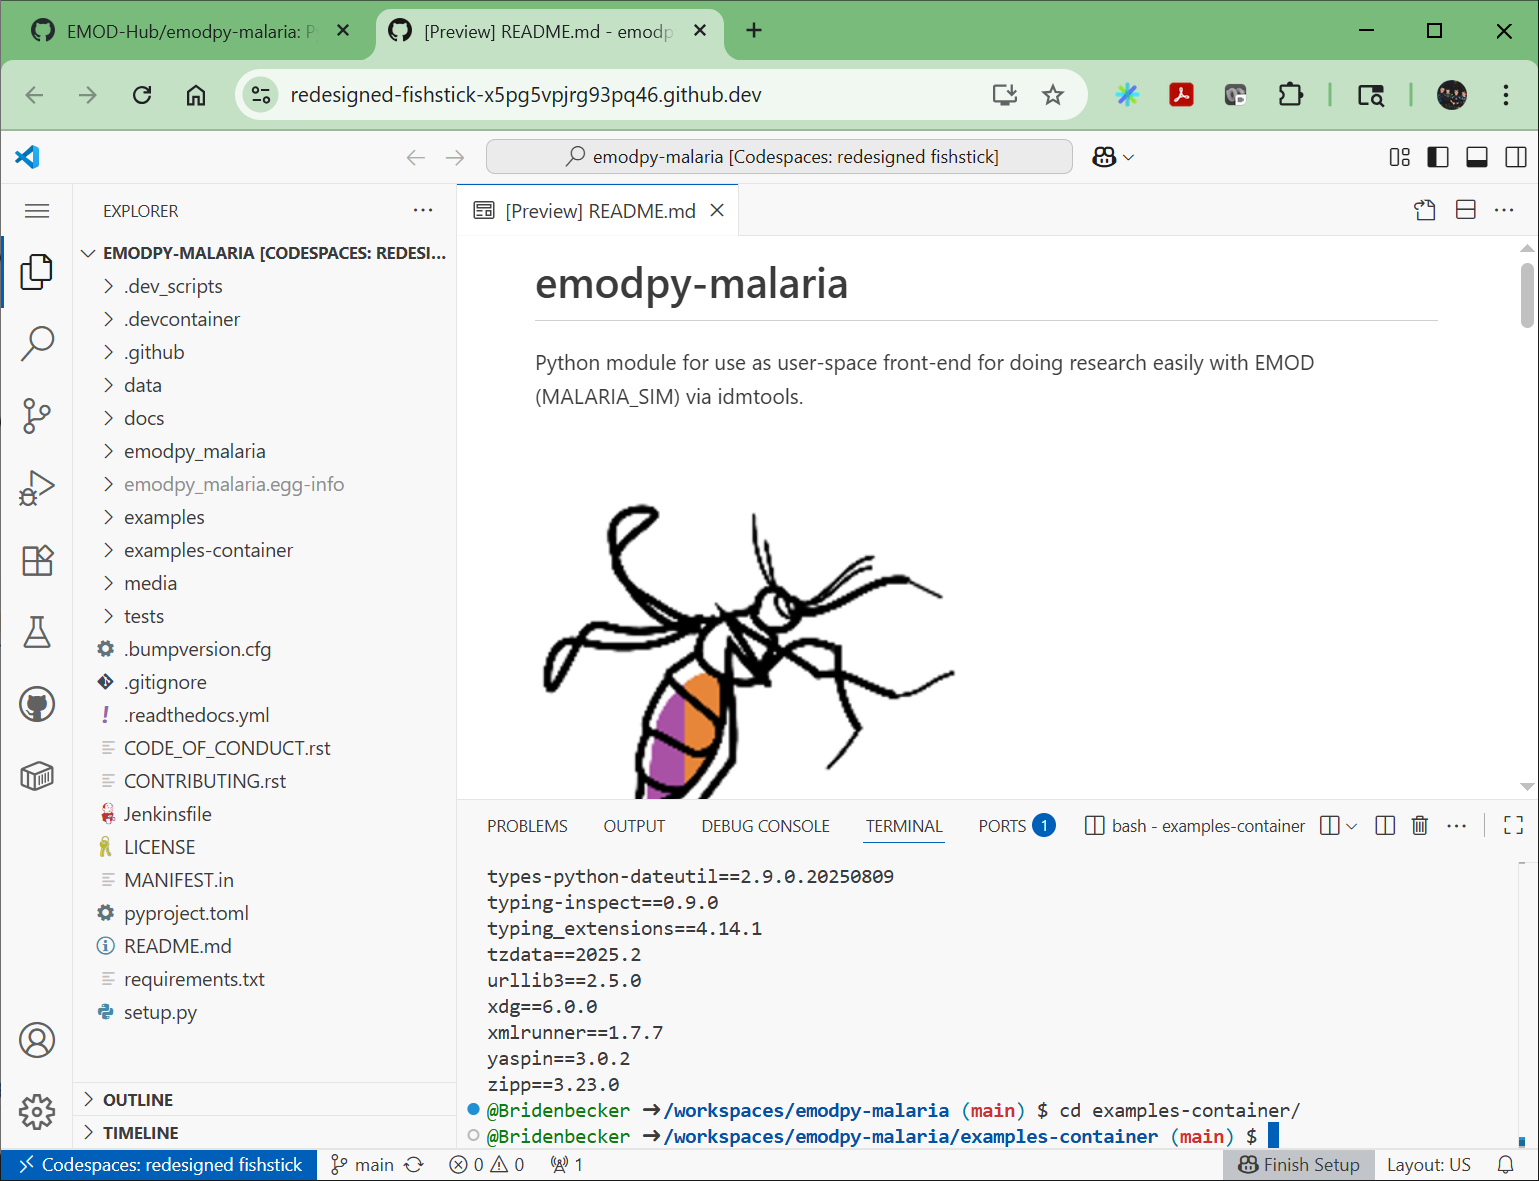
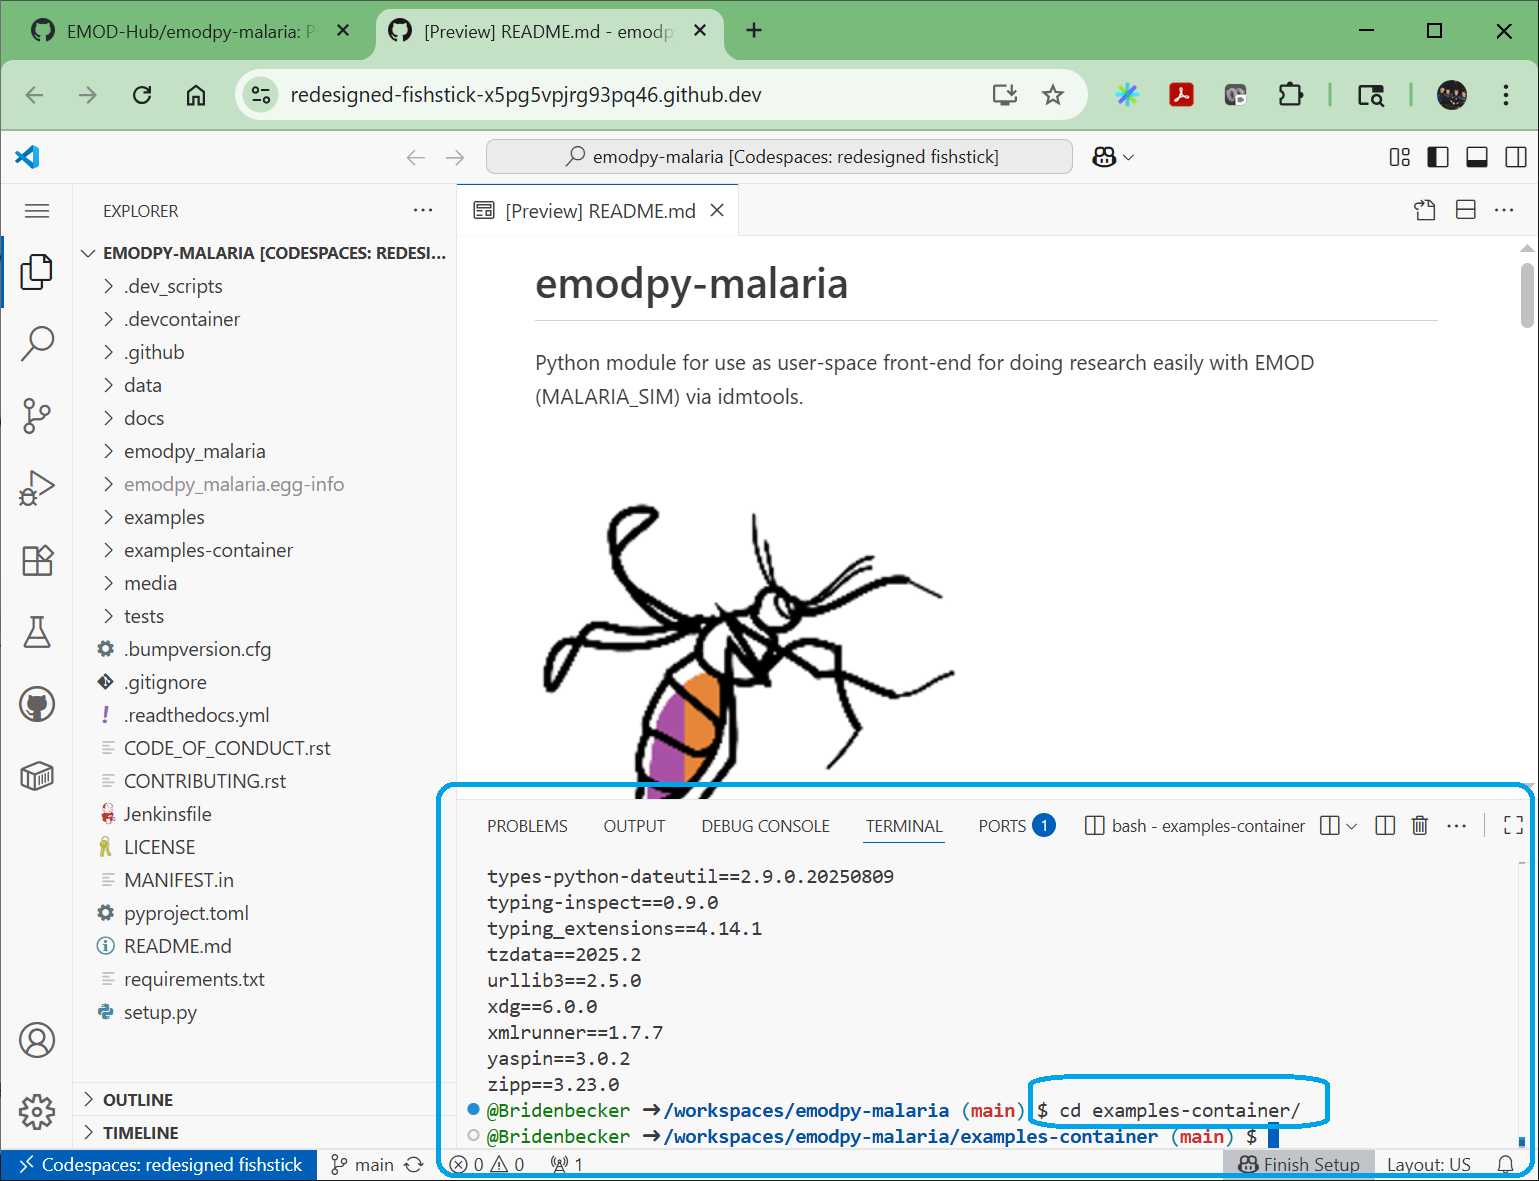
Review updates from Svetlana

Changed region(s): [[0.2807, 0.6401, 0.9981, 1.0], [0.6862, 0.884, 0.8421, 0.9145], [0.655, 0.9145, 0.6862, 0.945]]

diff --git a/tutorial_run_simple_example.md b/tutorial_run_simple_example.md
@@ -10,7 +10,7 @@ The followign instructions assume you have Codespaces started on the
 emopdy-malaria repository.  To learn how to do this, please the
 [Starting Codespaces Tutorial](tutorial_starting_codespaces.md)
 
-## Run an EMOD
+## Run EMOD example
 
 1. Execute the following command in the “terminal” window
 
@@ -19,6 +19,8 @@ emopdy-malaria repository.  To learn how to do this, please the
     ```
 
     ![](media/tutorial_6_cd_examples_container.png)
+
+    Most of the following instructions are going to take place in this terminal window.
 
 2. See what examples there are by executing the following command:
     ```
@@ -51,7 +53,8 @@ emopdy-malaria repository.  To learn how to do this, please the
 
     ![](media/tutorial_10_python_example_start.png)
 
-    This step “Pulling image docker-production-public…”  may take a few minutes.
+    This step “Pulling image docker-production-public…”  may take a few minutes,
+    but will only happen once per codespace image.
 
     ![](media/tutorial_11_pull_image.png)
 
@@ -63,19 +66,18 @@ emopdy-malaria repository.  To learn how to do this, please the
 
 Now that we have run EMOD, lets look at some data to see what happend in the simulations.
 
-1. In the file browser on the left, click on the ">" next to the _examples-container_ folder.
+1. In the file browser on the left, click on the ">" next to the _examples-container_ folder
+and continue navigating to the folder:
 
-    ![](media/tutorial_13_open_examples_container.png)
+    ```
+    examples-container > simple_example > results
+    ```
 
-2. Next, click on the ">" next to the _simple_example_ folder.
-
-    ![](media/tutorial_14_open_simple_example.png)
-
-3. Next, click on the ">" next to the _results_ folder.
-
-    ![](media/tutorial_15_open_results.png)
-
-4. Select the file names **Simple_Example.png".
+2. Select the file name **Simple_Example.png".
 
     ![](media/tutorial_16_select_image.png)
+
+## Understand the results
+
+The [next "tutorial"](tutorial_interpret_results.md) explains what you are seeing in this image.
 

diff --git a/tutorial_starting_codespaces.md b/tutorial_starting_codespaces.md
@@ -53,3 +53,7 @@ https://docs.github.com/en/codespaces/about-codespaces/what-are-codespaces
     ![](media/tutorial_5_pip_freeze.png)
 
     If you do, then are ready to go. If not, stop and delete the codespace.  Try starting it again.
+
+## Running EMOD
+
+Now that you have Codespaces up and running, you can [run a simple example simulation](tutorial_run_simple_example.md).
